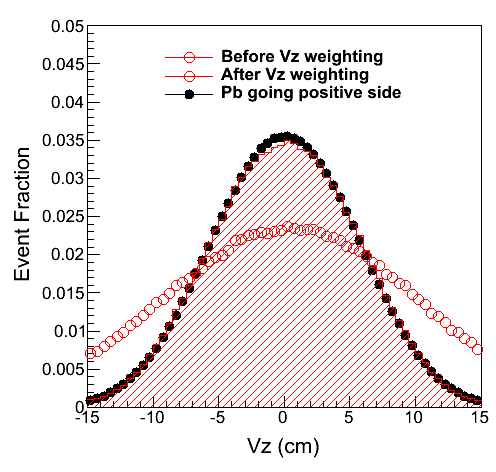
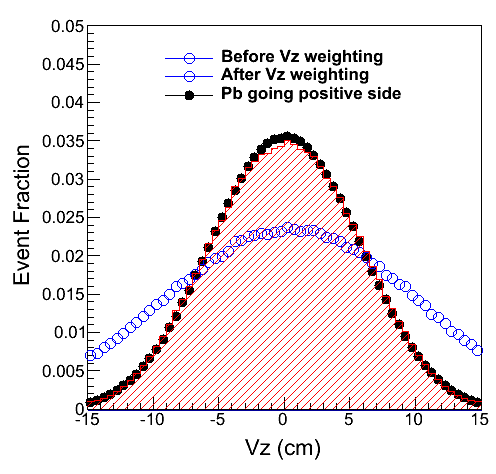
Vz comparsion update

diff --git a/jetRpA/RpA/NewMC/Event/CompareVz.C b/jetRpA/RpA/NewMC/Event/CompareVz.C
@@ -4,7 +4,7 @@
 void CompareVz(){
 gStyle->SetOptStat(kFALSE);
 gStyle->SetErrorX(0);
-TString coll="PbP";
+TString coll="PPb";
 bool Save=kTRUE;
  TF1 * fVz = new TF1("fVx","[0]+[1]*x+[2]*TMath::Power(x,2)+[3]*TMath::Power(x,3)+[4]*TMath::Power(x,4)", -15., 15.);
 if(coll=="PPb"){
@@ -40,8 +40,8 @@ histo2->Scale(1/histo2->Integral());
 histodata->Scale(1/histodata->Integral());
 histo1->SetMarkerStyle(24);
 histo1->SetMarkerSize(1.2);
-histo1->SetMarkerColor(2);
-histo1->SetLineColor(2);
+histo1->SetMarkerColor(4);
+histo1->SetLineColor(4);
 histo2->SetMarkerStyle(0);
 histo2->SetMarkerColor(0);
 histo2->SetMarkerSize(0);
@@ -124,7 +124,7 @@ histo2->Write("",TObject::kOverwrite);
 histodata->Write("",TObject::kOverwrite);
 fout->Close();
 c2->Print(Form("ratio_Vz_%s.png",coll.Data()));
-c1->Print(Form("VzCompare_Data%s.png",coll.Data()));
+c1->Print(Form("VzCompare_Data%s.gif",coll.Data()));
 c1->Print(Form("VzCompare_Data%s.pdf",coll.Data()));
 }
 
